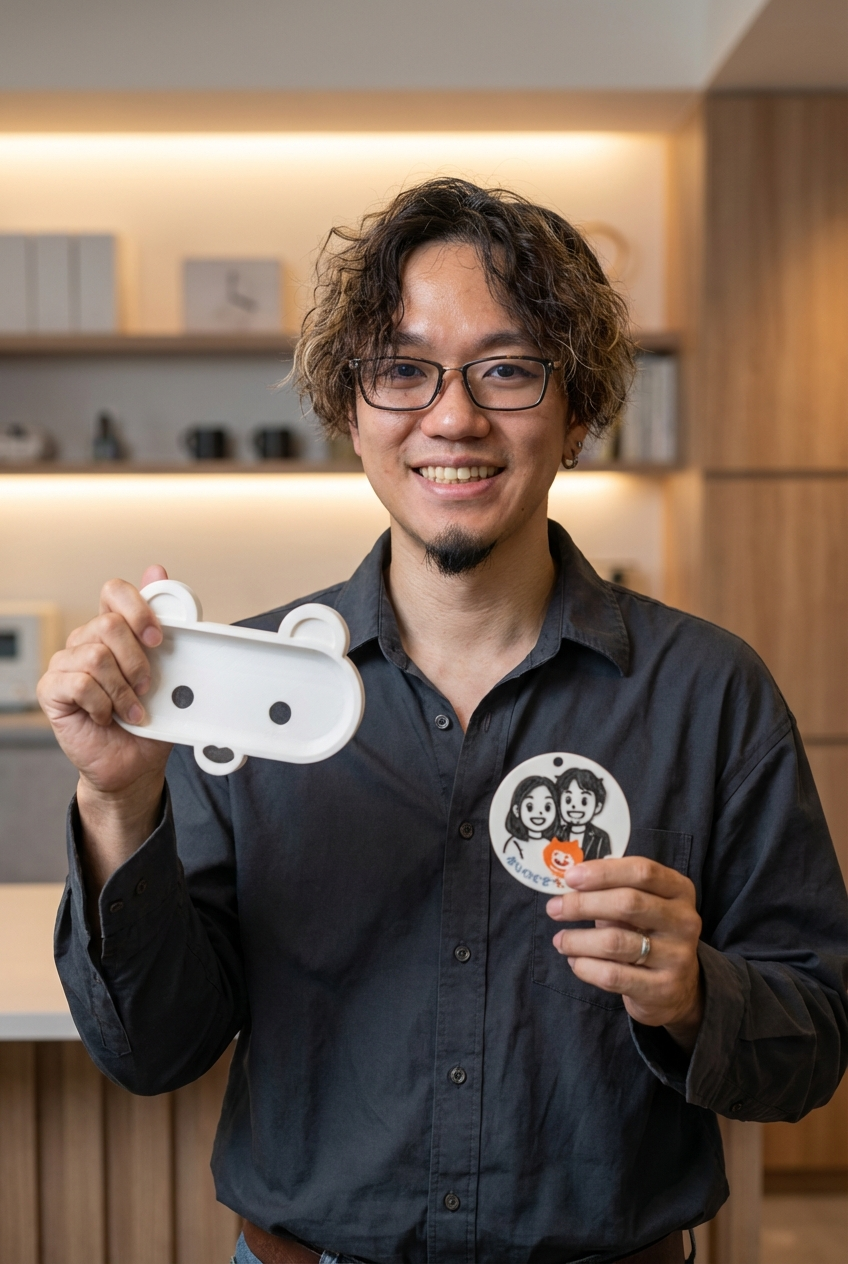
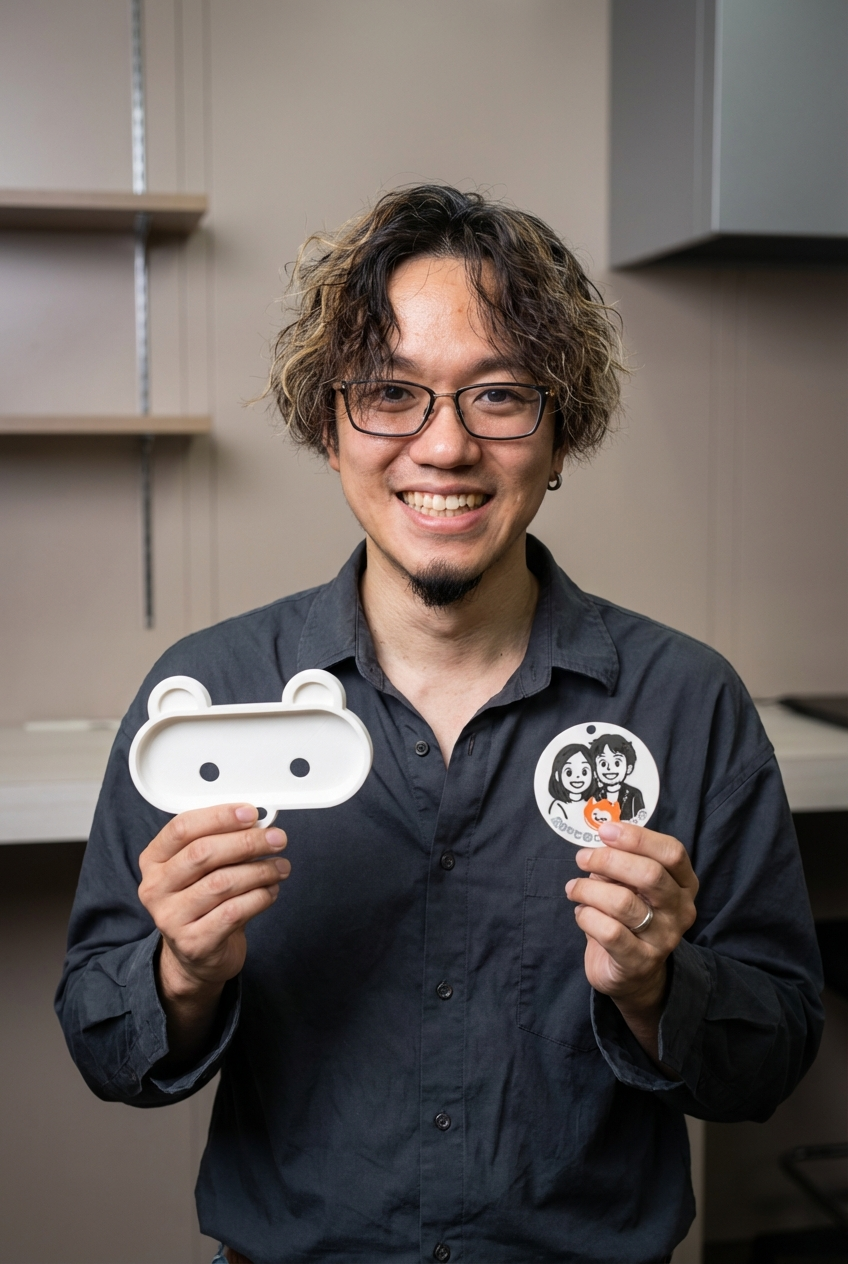
update: スタッフ写真をトリミング・差し替え
- 伊東雄歩: ワークショップ写真の背景をクリーンアップ（段ボール・ホワイトボード除去）
- 伊東優: 着物写真をクロップして小さいプロフィール画像に使用

diff --git a/app/team/page.tsx b/app/team/page.tsx
@@ -325,7 +325,7 @@ export default function TeamPage() {
                 <div className="flex flex-col sm:flex-row items-start sm:items-center gap-4">
                   <div className="w-20 h-20 rounded-2xl overflow-hidden flex-shrink-0 ring-2 ring-white/30">
                     <Image
-                      src="/staff-ito-yu-workshop.jpg"
+                      src="/staff-ito-yu-headshot.jpg"
                       alt="伊東 優"
                       width={80}
                       height={80}
